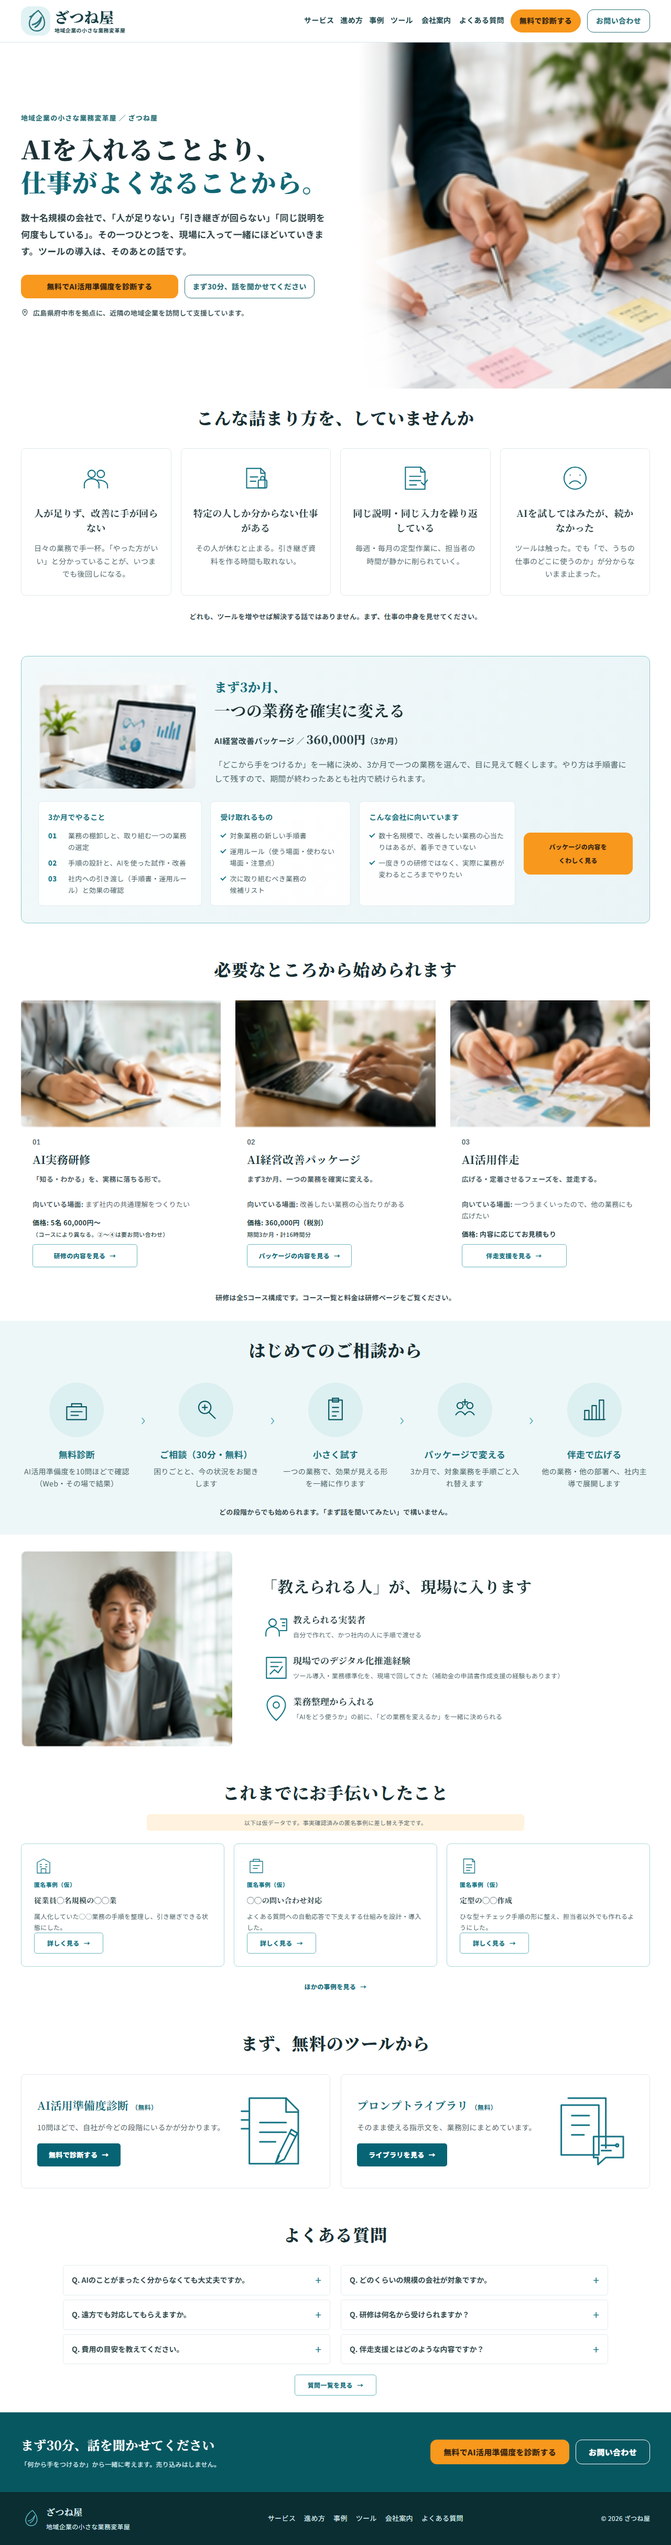
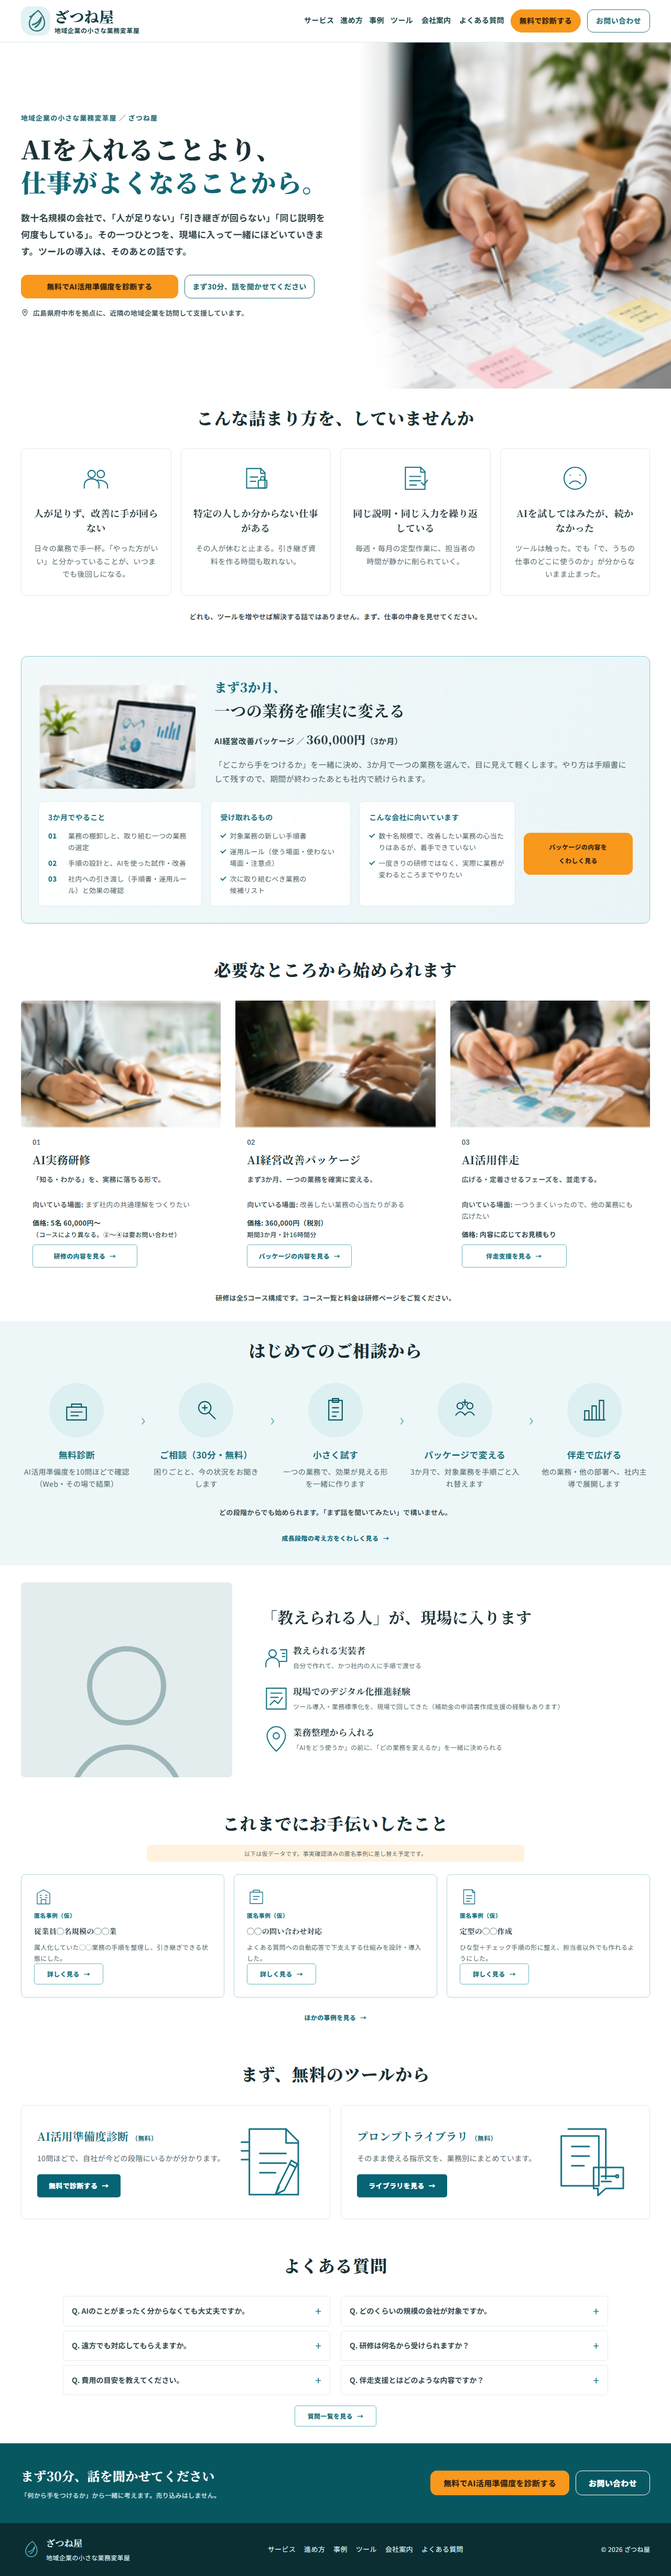
fix: V3公開前UIレビュー指摘を解消

diff --git a/v2/index.html b/v2/index.html
@@ -104,12 +104,13 @@
           <li><svg class="journey-icon" aria-hidden="true" viewBox="0 0 48 48"><path d="M8 40V25h7v15M20 40V17h7v23M32 40V8h7v32M6 40h36"/></svg><div><strong>伴走で広げる</strong><span>他の業務・他の部署へ、社内主導で展開します</span></div></li>
         </ol>
         <p class="section-closing">どの段階からでも始められます。「まず話を聞いてみたい」で構いません。</p>
+        <a class="card-link section-link" href="./growth.html">成長段階の考え方をくわしく見る</a>
       </div>
     </section>
 
     <section id="why-us" class="section section--why-us" aria-labelledby="why-us-title">
       <div class="comp-wrap why-us-layout fade-in">
-        <aside class="representative-card"><img src="./assets/comp-parts/representative.png" data-asset-role="representative-portrait" data-asset-status="comp-placeholder" width="185" height="171" alt="代表者写真（正式素材に差し替え予定）" loading="lazy"><p class="representative-summary">大音 晃司（おおと こうじ）。広島県府中市を拠点に、地域企業のAI活用を支援しています。</p></aside>
+        <aside class="representative-card"><img src="./assets/representative-portrait-placeholder.svg" data-asset-role="representative-portrait" data-asset-status="comp-placeholder" width="400" height="500" alt="" loading="lazy"><p class="representative-summary">大音 晃司（おおと こうじ）。広島県府中市を拠点に、地域企業のAI活用を支援しています。</p></aside>
         <div class="why-us-copy"><h2 id="why-us-title"><span class="top-title-part">「教えられる人」が、</span><span class="top-title-part">現場に入ります</span></h2><div class="why-us-points">
           <article><svg class="line-icon" aria-hidden="true" viewBox="0 0 48 48"><circle cx="18" cy="17" r="6"/><path d="M7 39v-4c0-7 5-11 11-11s11 4 11 11v4M31 11h10v19H30M34 17h4M34 22h4"/></svg><div><h3>教えられる実装者</h3><p>自分で作れて、かつ社内の人に手順で渡せる</p></div></article>
           <article><svg class="line-icon" aria-hidden="true" viewBox="0 0 48 48"><path d="M8 7h32v34H8Z"/><path d="M15 15h18M15 22h12M14 34l7-7 6 5 7-10"/></svg><div><h3>現場でのデジタル化推進経験</h3><p>ツール導入・業務標準化を、現場で回してきた（補助金の申請書作成支援の経験もあります）</p></div></article>

diff --git a/v2/works-profile-comp.css b/v2/works-profile-comp.css
@@ -56,7 +56,7 @@
 .tl-dot{position:relative;z-index:1;flex:none;width:48px;height:48px;border-radius:14px;background:linear-gradient(135deg,var(--teal),var(--teal-dk));color:#fff;display:flex;align-items:center;justify-content:center;font:900 17px 'Roboto',sans-serif;box-shadow:var(--shadow)}
 .tl-item.accent .tl-dot{background:linear-gradient(135deg,var(--orange),#E28511)}
 .tl-card{flex:1;background:#fff;border:1px solid #e7f0f0;border-radius:16px;padding:16px 20px;box-shadow:0 7px 20px rgba(18,63,70,.06);margin-top:4px}
-.tl-card h3{margin:0;font-size:16.5px;color:var(--ink);font-family:'Noto Sans JP',sans-serif;font-weight:900}
+.tl-card h3{margin:0;font-size:16.5px;color:var(--ink);font-family:var(--font-sans);font-weight:900}
 .tl-card p{margin:6px 0 0;font-size:14px;line-height:1.75;color:var(--muted)}
 .tl-card p .arrow{color:var(--teal-dk);font-weight:900;margin-right:4px}
 .tl-item.accent .tl-card p .arrow{color:var(--orange-text)}
@@ -66,7 +66,7 @@
 .trio-card{padding:30px 26px;text-align:center}
 .trio-icon{width:56px;height:56px;margin:0 auto;border-radius:16px;background:var(--mint);display:flex;align-items:center;justify-content:center;color:var(--teal-dk)}
 .trio-icon svg{width:28px;height:28px;fill:none;stroke:currentColor;stroke-width:1.6;stroke-linecap:round;stroke-linejoin:round}
-.trio-card h3{margin:16px 0 0;font-size:17px;color:var(--ink);font-family:'Noto Sans JP',sans-serif;font-weight:900}
+.trio-card h3{margin:16px 0 0;font-size:17px;color:var(--ink);font-family:var(--font-sans);font-weight:900}
 .trio-card p{margin:10px 0 0;font-size:13.5px;line-height:1.8;color:var(--muted)}
 .trio-src{display:inline-block;margin-top:14px;font-size:11.5px;font-weight:800;letter-spacing:.02em;color:var(--teal-dk);background:var(--mint);padding:6px 14px;border-radius:999px}
 

diff --git a/v2/top-comp.css b/v2/top-comp.css
@@ -177,7 +177,7 @@ button,a{font:inherit}button{color:inherit}img{display:block;max-width:100%}
 .header-inner{display:flex;min-height:80px;align-items:center;justify-content:space-between;gap:var(--space-20);width:min(100% - 64px,1200px)}
 .brand{display:inline-flex;min-width:240px;min-height:var(--size-control);flex:0 0 auto;align-items:center;gap:var(--space-8);color:var(--ink);font-family:var(--font-serif);font-size:20px;font-weight:900;text-decoration:none}
 .brand-mark{display:grid;width:56px;height:56px;padding:4px;place-items:center;border:0;border-radius:16px 20px 16px 22px;background:var(--teal-wash);color:var(--teal-dark);font-family:var(--font-sans);font-size:16px;line-height:1}
-.brand-copy{display:grid;line-height:1.2}.brand-copy strong{font-size:28px}.brand-copy small{margin-top:2px;font-family:var(--font-sans);font-size:10px;font-weight:700;letter-spacing:.04em}
+.brand-copy{display:grid;line-height:1.2}.brand-copy strong{font-size:28px}.brand-copy small{margin-top:2px;font-family:var(--font-sans);font-size:12px;font-weight:700;letter-spacing:.04em}
 .brand-mark path{fill:none;stroke:var(--teal-dark);stroke-linecap:round;stroke-linejoin:round;stroke-width:2.4}.brand-mark path:nth-child(2){stroke-width:2.8}
 .comp-nav{display:flex;align-items:center;gap:var(--space-12);font-size:14px;font-weight:700}
 .site-nav__link,.site-nav__dropdown-trigger{display:inline-flex;min-height:var(--size-control);align-items:center;padding-inline:var(--space-4);border:0;border-bottom:2px solid transparent;background:transparent;color:var(--ink);cursor:pointer;text-decoration:none}

diff --git a/v2/v3-top-page.css b/v2/v3-top-page.css
@@ -48,7 +48,7 @@
 .service-card figure{height:auto;margin:0;overflow:hidden;aspect-ratio:162/103}.service-card figure img{width:100%;height:100%;object-fit:cover}
 .service-card>:not(figure){margin-right:22px;margin-left:22px}.service-number{margin-top:18px!important;margin-bottom:0;color:#177585;font-family:var(--font-numeric);font-size:13px;font-weight:900}
 .service-card h3{margin-top:4px!important;margin-bottom:8px;color:#1c373c;font-family:var(--font-serif);font-size:21px}
-.service-card p{color:#4d6266;font-size:13px;line-height:1.7}.service-lead{margin-top:0;font-weight:700}.service-price{margin-top:auto;margin-bottom:8px;color:#203b40!important;font-weight:700}.service-price small{font-size:11px;font-weight:500}
+.service-card p{color:#4d6266;font-size:13px;line-height:1.7}.service-lead{margin-top:0;font-weight:700}.service-price{margin-top:auto;margin-bottom:8px;color:#203b40!important;font-weight:700}.service-price small{font-size:12px;font-weight:500}
 .service-card .card-link{width:200px;min-height:44px;margin-bottom:18px;border:1px solid #6ab5bf;border-radius:5px}
 .section--journey{background:#eef7f8}
 .journey-steps{display:grid;padding:4px 0;margin:0;list-style:none;grid-template-columns:repeat(5,minmax(0,1fr));gap:34px}

diff --git a/v2/faq-contact-comp.css b/v2/faq-contact-comp.css
@@ -13,9 +13,9 @@
 .faq-item{border-bottom:1px solid var(--line)}
 .faq-item:first-child{border-top:1px solid var(--line)}
 .faq-question{margin:0}
-.faq-trigger{display:flex;align-items:center;gap:16px;width:100%;min-height:56px;padding:16px 4px;background:none;border:0;cursor:pointer;text-align:left;font-family:'Noto Sans JP',sans-serif;font-size:15px;font-weight:700;color:var(--ink)}
+.faq-trigger{display:flex;align-items:center;gap:16px;width:100%;min-height:56px;padding:16px 4px;background:none;border:0;cursor:pointer;text-align:left;font-family:var(--font-sans);font-size:15px;font-weight:700;color:var(--ink)}
 .faq-trigger:hover{color:var(--teal-dk)}
-.faq-trigger__mark{flex:none;font-family:'Noto Serif JP',serif;font-weight:900;font-size:16px;color:var(--orange);width:20px}
+.faq-trigger__mark{flex:none;font-family:var(--font-serif);font-weight:900;font-size:16px;color:var(--orange);width:20px}
 .faq-trigger__text{flex:1}
 .faq-trigger__icon{flex:none;position:relative;width:18px;height:18px}
 .faq-trigger__icon::before,.faq-trigger__icon::after{content:'';position:absolute;background:var(--orange);border-radius:2px}

diff --git a/docs/qa/2026-09-15-lower-pages-v3.md b/docs/qa/2026-09-15-lower-pages-v3.md
@@ -95,3 +95,20 @@ growthのフッターリンクに自然Tabで到達する2幅のテストがFAIL
 今回再実行した検証は、verify-v2 **580 PASS**、TOP **50コピー・10セクション・6FAQ PASS**、works/profile **115 PASS**、services **237 PASS**、FAQ/contact **138 PASS**、legal/status **212 PASS**、共通下層 **479 PASS**、現行本文 **106 PASS**、情報本文 **8ページPASS**です。各コマンドexit 0、diff --checkもエラー0。検証数の正値は580/212であり、途中版の581/214は採用しません。
 
 上のLighthouse28回・axe・3ブラウザ・画面目視・コントラストの結果は前回実装時の測定です。今回の記録のみの更新では再実行していません。既存TOP寸法3未達、Windows WebKit自然Tab2未達、外部フォーム送受信・実Safari・法務専門レビュー未実施は引き続き明記します。最適化確認：対象項目に追加修正を要する問題なし（実装変更不要）。
+
+## Claude Codeレビュー後の非掲載内容修正
+
+公開前にまとめて確定する掲載文・料金・法務・FAQ本文は変更せず、表示・操作・配信物の指摘だけを修正しました。
+
+- TOPから `growth.html` への承認済み導線「成長段階の考え方をくわしく見る」を進め方の末尾へ復活。
+- TOPの代表者画像を `profile.html` と同じ中立SVGへ統一。実在人物に見えるカンプ切り出し画像を代表者名の横に表示しません。
+- ヘッダーのブランド補足を10pxから12px、TOPサービス料金補足を11pxから12pxへ変更。
+- FAQ操作部とworks/profile見出しの直接フォント指定を、共通の日本語システムフォールバック変数へ統一。
+- WebKitではSafari既定設定により通常の文字リンクが自然Tab順へ入らないため、HTMLへ不自然な`tabindex`を追加せず、対象リンクをフォーカスした状態のEnter遷移を検証する契約へ修正。Chromium/Firefoxは自然Tab到達を引き続き検証。
+- 全ソースと資料からの参照が0件だった配信用画像7点（539,445 bytes）に加え、中立SVGへの統一後に未参照となった旧代表者カンプ切り出し1点（46,714 bytes）を削除。削除済み`service-order.html`のQA画像4点・メモ1点も整理しました。いずれもGit履歴から復元可能です。利用中の`v3-package-dashboard.jpg`と、再利用テンプレートが参照する`v3-service-support.jpg`は保持。
+
+修正後の静的検証はverify-v2 **581 PASS**、TOP **51コピー・10セクション・6FAQ PASS**、works/profile **116 PASS**、services **237 PASS**、FAQ/contact **139 PASS**、legal/status **212 PASS**、共通下層 **487 PASS**。全15ページの3エンジン×4幅ブラウザ検証は **992 PASS**、TOPブラウザは4幅・キーボード・storage拒否・BFCache・reduced-motionをPASS。クロスブラウザ代表検証は3エンジン×3幅の **9 PASS**、CTA状態コントラストは5状態すべて6.896:1以上。axeは15ページ×mobile/desktop×immediate/settledの **60スキャンでWCAG 2/2.1 A/AA違反0**。LighthouseはTOP＋growth＋tools＋services＋service-management＋faq＋worksをmobile/desktop各2回の **28測定**で、performance 0.99〜1.00、accessibility／best practices／SEOはすべて1.00でした。
+
+TOPのSP視覚予算は合格扱いにしていません。375pxの総高は修正前基準8837pxから8899px（+62px）、視覚差分のaspect errorは42.82%から43.82%（+1.00ポイント）です。追加した成長段階導線の表示領域による意図した増加であり、文字サイズ下限と確定本文を犠牲にした圧縮や閾値緩和は行いません。色・輪郭の正規化スコアは0.1748で0.22以内ですが、geometry 3件とaspect 1件は引き続き既知未達として扱います。
+
+本タスクで保留した掲載内容は、特商法キャンセル条項、TOP FAQ2件、税別表記、匿名事例の実データです。本番昇格・root置換・index-v2削除・robots/noindex・sitemap・親gitlink・mainは変更していません。
